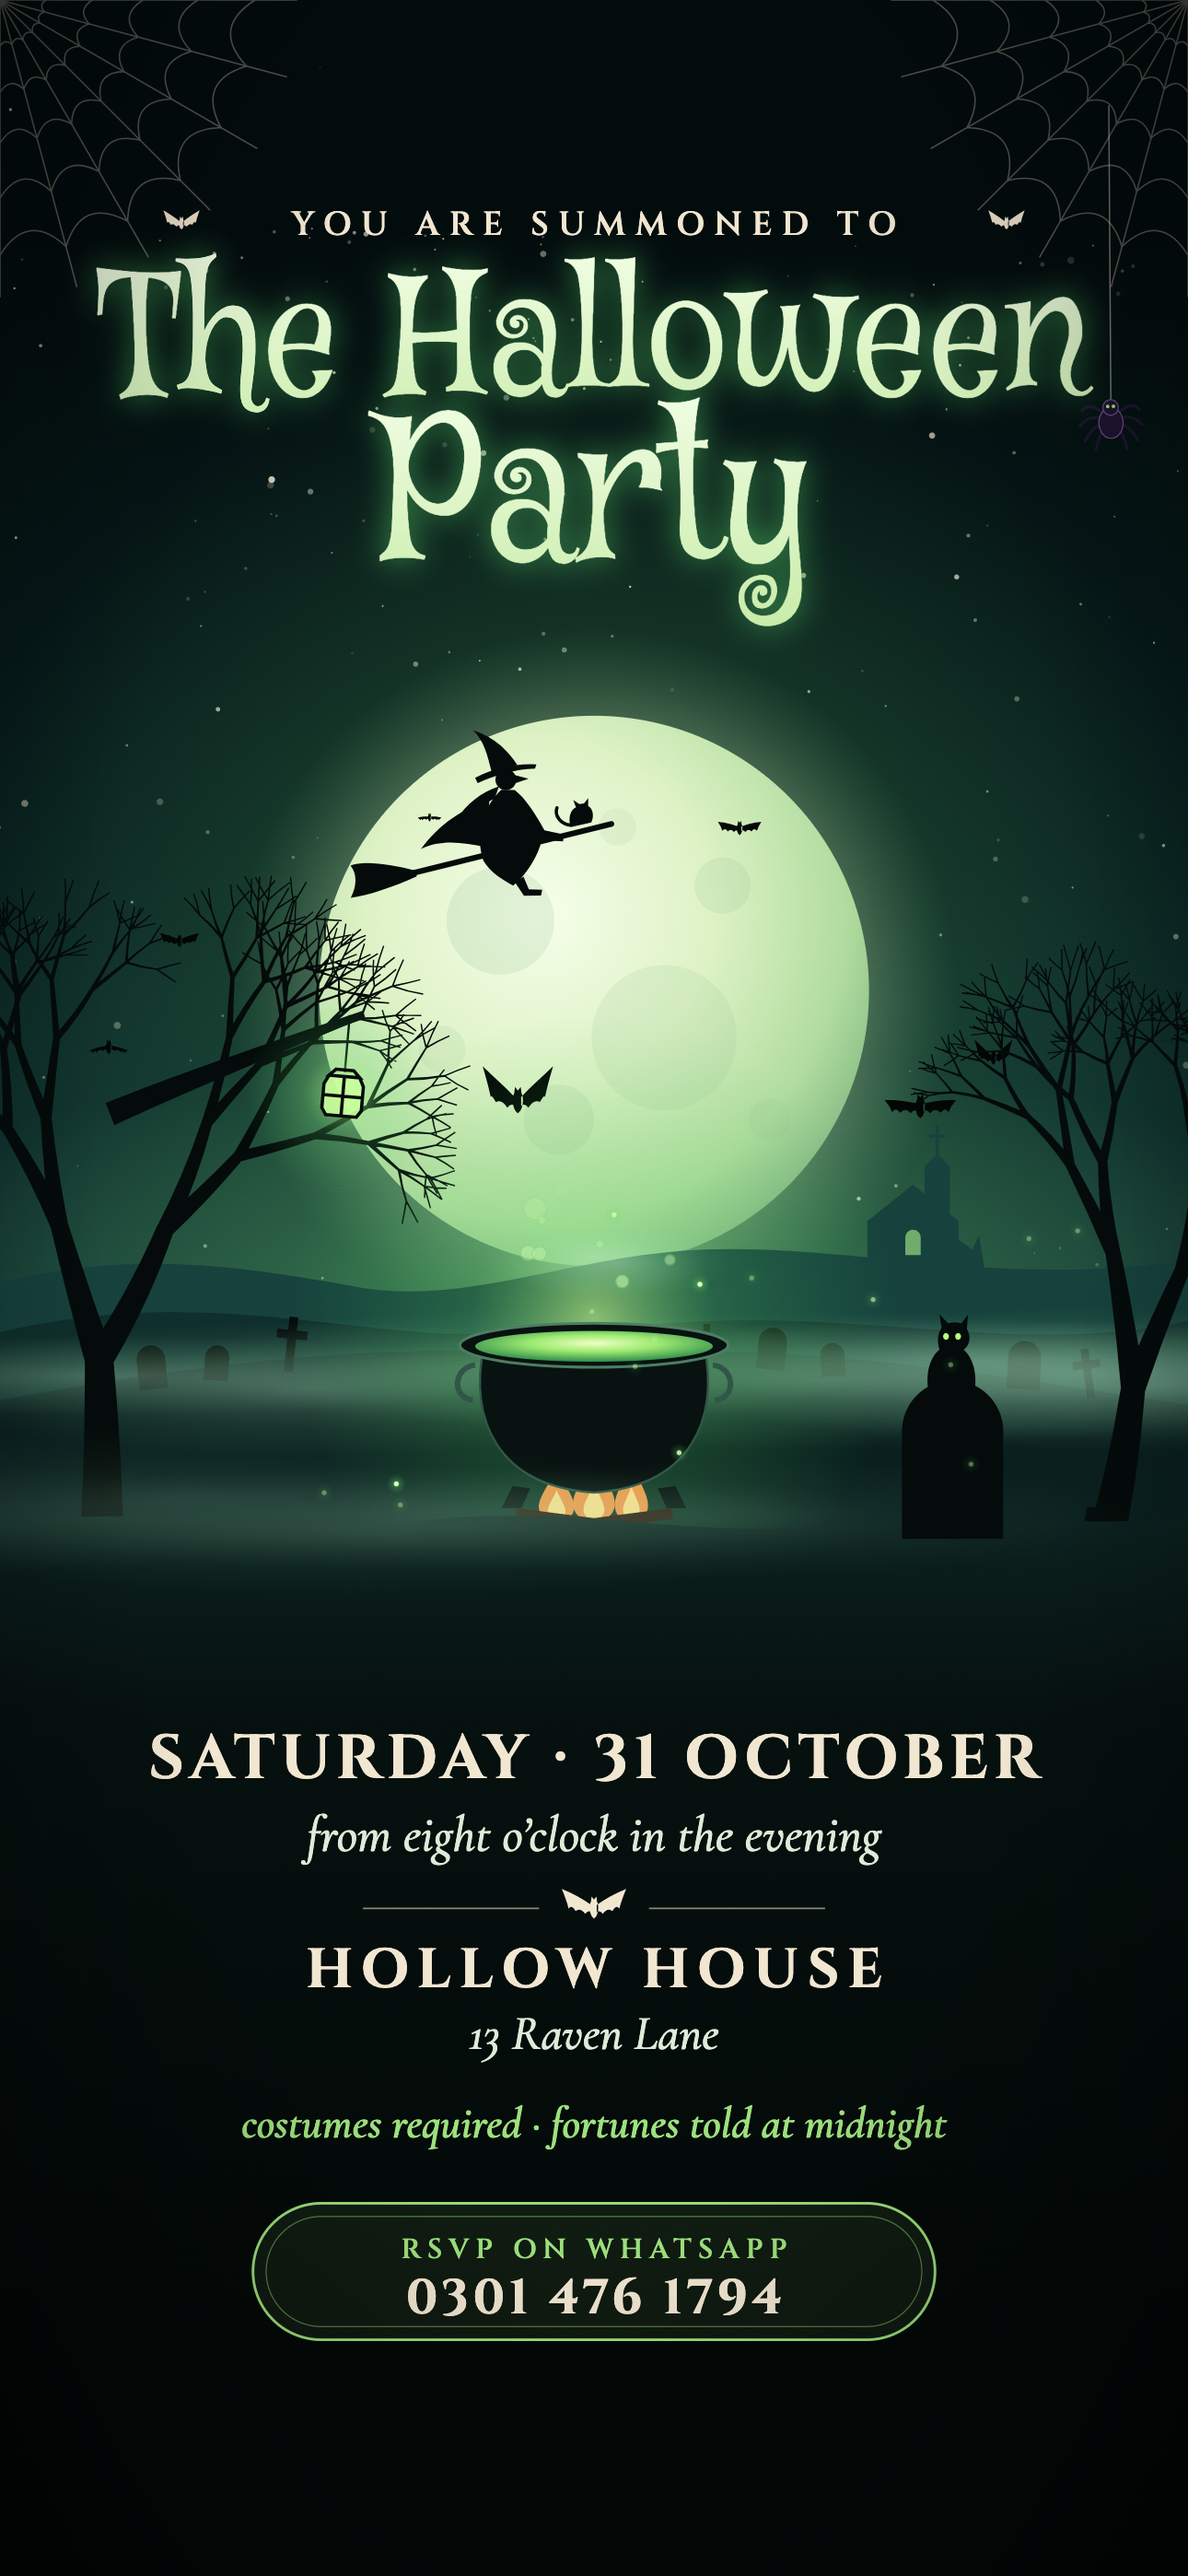
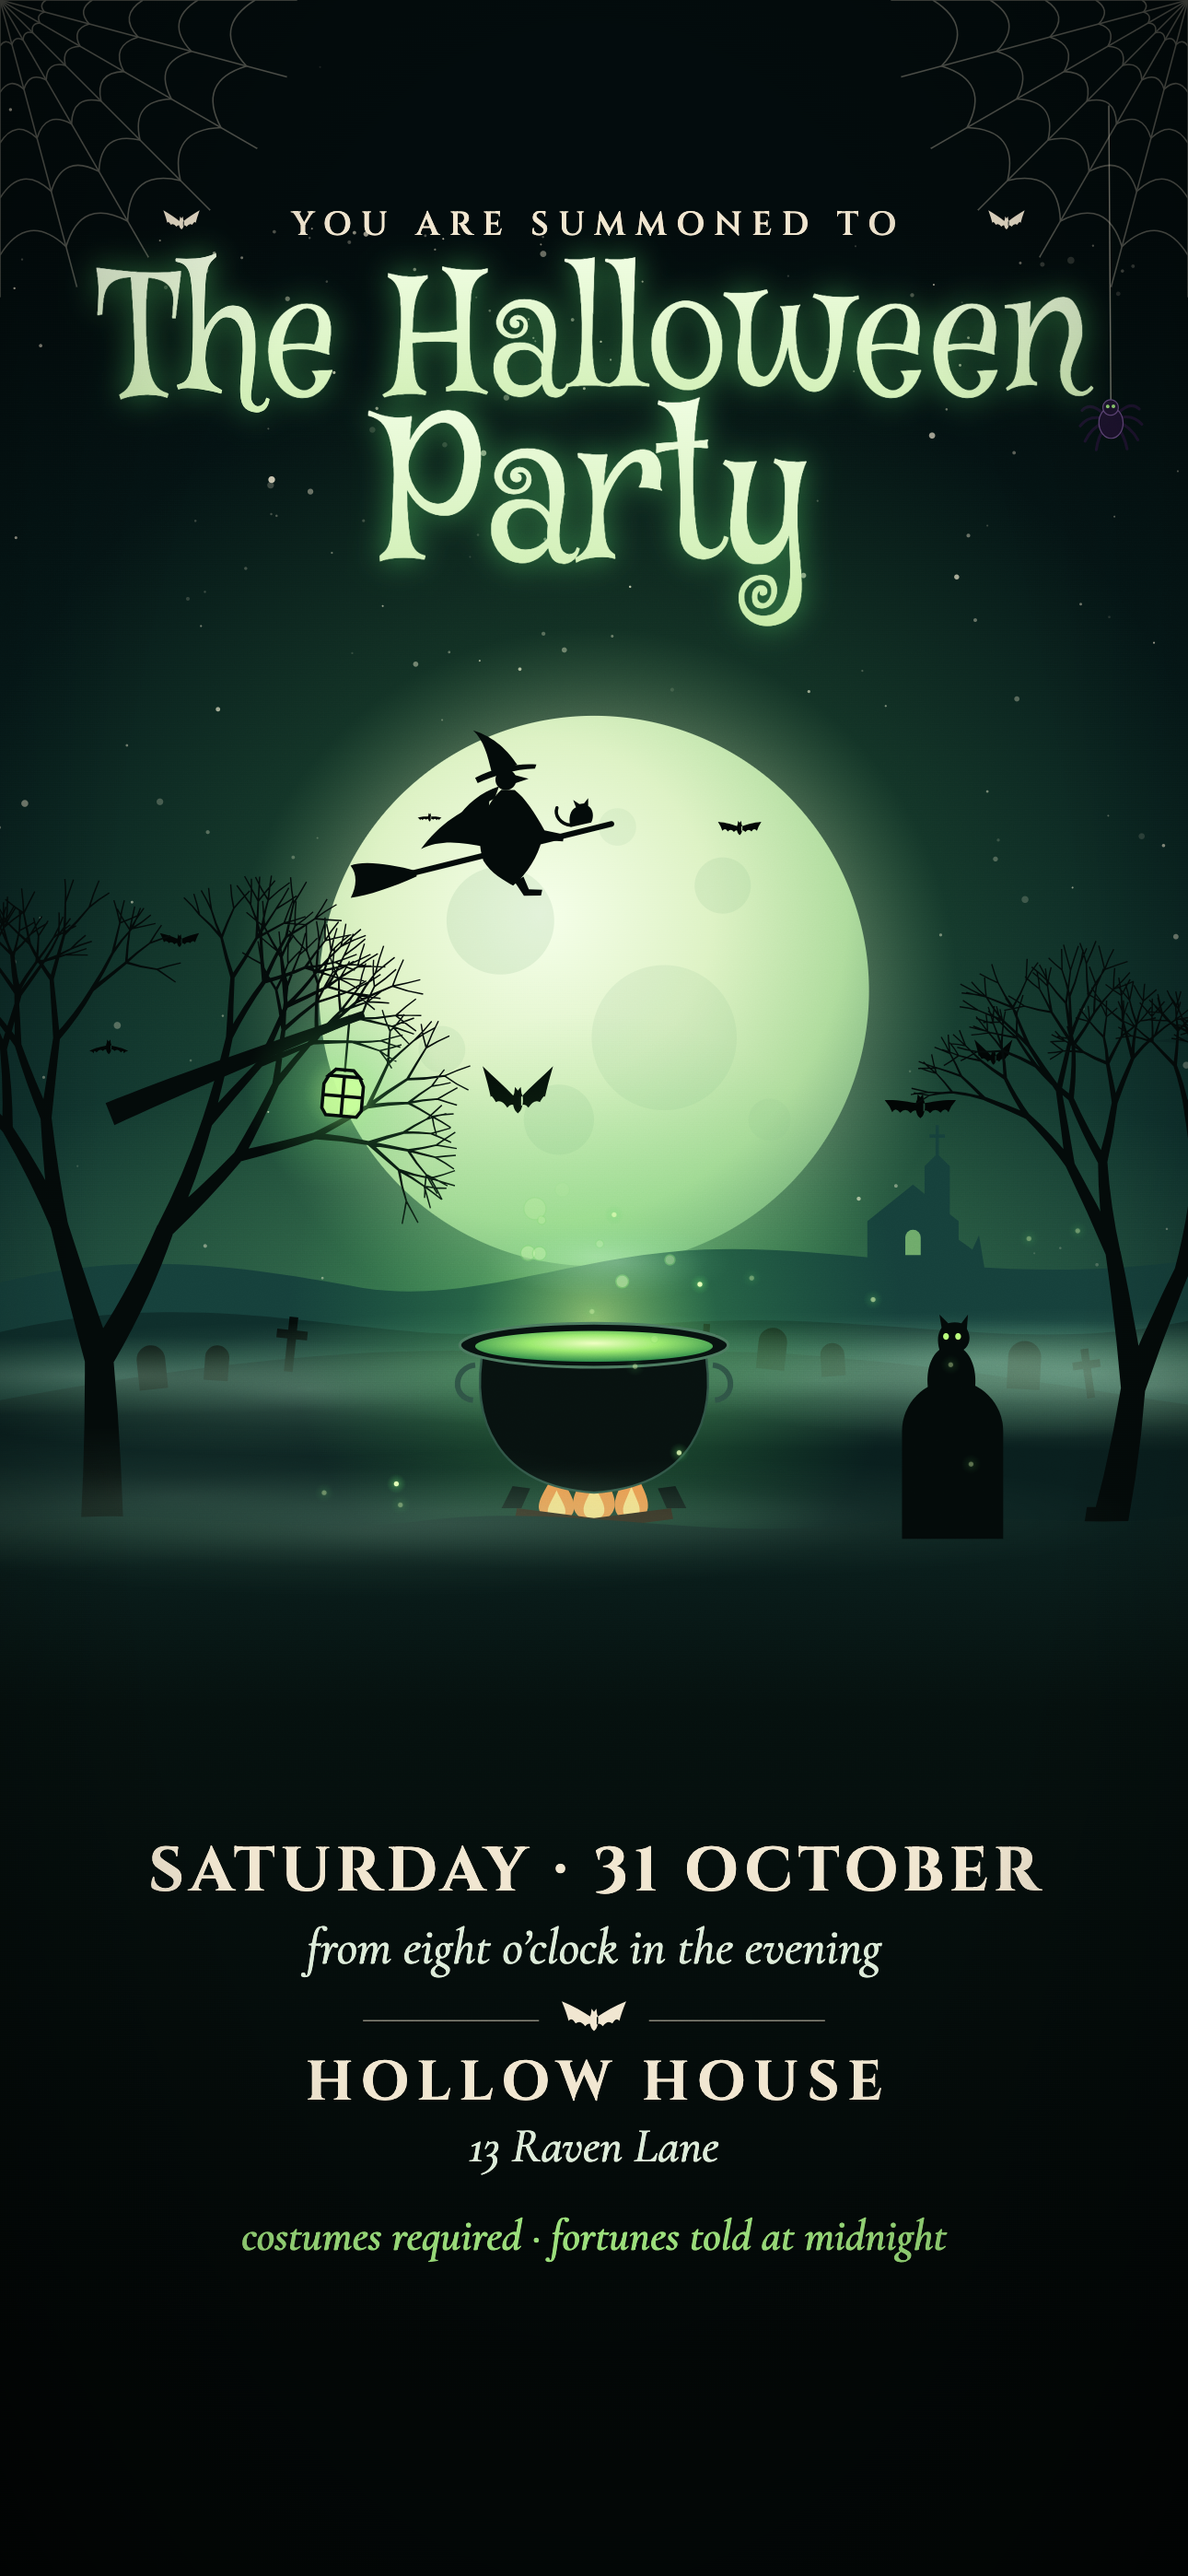
Card details and page details use each card's own typefaces

Changed region(s): [[0.124, 0.6534, 0.8682, 0.9024], [0.124, 0.6534, 0.2481, 0.6845]]

diff --git a/art.js b/art.js
@@ -28,6 +28,7 @@
   const THEMES = {
     manor: {
       font: ['Grenze Gotisch', 700],
+      detail: ['Grenze Gotisch', 600, false, 0.3], body: ['Grenze', 400, true],
       name: 'The Haunted Manor',
       sky: ['#0A0717', '#1A1030', '#2E1846', '#4A2350', '#5E2C4C'],
       moon: { x: 540, y: 700, r: 235, c: ['#FFF4D6', '#F8DC9C', '#EDB06A', '#D98A4C'], crater: '#C9824A', glow: ['#F6C47E', '#E8834A'] },
@@ -38,6 +39,7 @@
     },
     witch: {
       font: ['Mystery Quest', 400],
+      detail: ['Mystery Quest', 400, true, 0.5], body: ['Mystery Quest', 400, false],
       name: 'The Witching Hour',
       sky: ['#030C0D', '#08201F', '#0F3432', '#1D4A43', '#2B5A49'],
       moon: { x: 540, y: 690, r: 250, c: ['#F6FFEA', '#DDF2C4', '#AEDB9C', '#7DB47E'], crater: '#86B88A', glow: ['#C8F0B0', '#5FBF6A'] },
@@ -48,6 +50,7 @@
     },
     patch: {
       font: ['Creepster', 400],
+      detail: ['Creepster', 400, true, 0.5], body: ['Henny Penny', 400, false],
       name: 'The Pumpkin Patch',
       sky: ['#100508', '#2A0B13', '#521519', '#8E2F1D', '#C45B26'],
       moon: { x: 540, y: 800, r: 300, c: ['#FFF0C8', '#FFCF7A', '#F59D42', '#DA6A2A'], crater: '#D07A36', glow: ['#FFC070', '#FF6A2A'] },
@@ -58,6 +61,7 @@
     },
     grave: {
       font: ['Cinzel Decorative', 700],
+      detail: ['Cinzel Decorative', 700, true, 0.7], body: ['Cinzel Decorative', 400, false],
       name: 'The Restless Graveyard',
       sky: ['#050A16', '#0B1830', '#13284A', '#1E3A60', '#2A4A70'],
       moon: { x: 540, y: 690, r: 225, c: ['#F6FAFF', '#DCE8FA', '#AFC6E8', '#839FCB'], crater: '#90A8CE', glow: ['#D2E2FF', '#6F8FD0'] },
@@ -68,6 +72,7 @@
     },
     vamp: {
       font: ['UnifrakturMaguntia', 400],
+      detail: ['UnifrakturMaguntia', 400, false, 0.2], body: ['IM Fell English', 400, true],
       name: 'The Vampire\u2019s Castle',
       sky: ['#0A0204', '#1E0408', '#3A0710', '#5A0E16', '#6E1219'],
       moon: { x: 360, y: 640, r: 195, c: ['#FFE0D4', '#F7A08A', '#D24A3C', '#8E1E1C'], crater: '#A8322A', glow: ['#FF8A70', '#C21E1E'] },
@@ -78,6 +83,7 @@
     },
     forest: {
       font: ['Uncial Antiqua', 400],
+      detail: ['Uncial Antiqua', 400, true, 0.4], body: ['Uncial Antiqua', 400, false],
       name: 'The Whispering Woods',
       sky: ['#02080C', '#061820', '#0B2A33', '#123A40', '#1A4A48'],
       moon: { x: 540, y: 640, r: 190, c: ['#F5FFF8', '#D2F0E0', '#9ED2BC', '#6AA894'], crater: '#7EB8A2', glow: ['#BFF5DA', '#4FA88A'] },
@@ -88,6 +94,7 @@
     },
     ship: {
       font: ['Pirata One', 400],
+      detail: ['Pirata One', 400, false, 0.4], body: ['Pirata One', 400, false],
       name: 'The Ghost Ship',
       sky: ['#02060E', '#06122A', '#0C2042', '#163058', '#1F3C66'],
       moon: { x: 700, y: 640, r: 180, c: ['#FFFDF0', '#F2EFD6', '#CFCBAA', '#A8A27E'], crater: '#B5AF8A', glow: ['#F0EFD0', '#8A9AC0'] },
@@ -98,6 +105,7 @@
     },
     carnival: {
       font: ['Sancreek', 400],
+      detail: ['Sancreek', 400, true, 0.5], body: ['Rye', 400, false],
       name: 'The Haunted Carnival',
       sky: ['#0A0414', '#1C0A2E', '#33124A', '#4E1A5C', '#64205E'],
       moon: { x: 720, y: 600, r: 190, c: ['#FFF2FA', '#F6D2EA', '#D9A0C8', '#B070A0'], crater: '#C080B0', glow: ['#FFC8EC', '#C04FA0'] },
@@ -1072,6 +1080,14 @@
 
     /* ---------- text ---------- */
     const entries = [], fit = [];
+    // the card's own typefaces for the smaller lines
+    const DETAIL = `'${T.detail[0]}', serif`, BODY = `'${T.body[0]}', serif`;
+    const caps = (txt, sentence) => T.detail[2] ? txt.toUpperCase()
+      : sentence ? txt.charAt(0).toUpperCase() + txt.slice(1).toLowerCase()
+      : txt.toLowerCase().replace(/(^|[\s·,-])(\p{L})/gu, (m, a, b) => a + b.toUpperCase());
+    const dls = n => Math.round(n * T.detail[3]);
+    const dl = (txt, y, size, ls, o = {}) => line(caps(txt, o.sentence), y, DETAIL, size, Object.assign({ weight: T.detail[1], ls: dls(ls) }, o));
+    const bl = (txt, y, size, o = {}) => line(txt, y, BODY, size, Object.assign({ weight: T.body[1], italic: T.body[2] }, o));
     function line(txt, y, family, size, o = {}) {
       const t = el('text', {
         x: CX, y, 'font-family': family, 'font-size': size, 'text-anchor': 'middle', fill: o.fill || CREAM,
@@ -1098,7 +1114,7 @@
 
     if (OPT.text) {
       const eg = el('g', {}, topText);
-      line(P.eyebrow, 150, CINZEL, 30, { weight: 600, ls: 9, parent: eg, max: 640 });
+      dl(P.eyebrow, 150, 32, 9, { parent: eg, max: 640, sentence: true });
       for (const sx of [-1, 1]) el('path', { d: batPath(0.6), fill: CREAM, transform: `translate(${CX + sx * 375},140) scale(0.36)` }, eg);
       reveal(eg, 1.9);
 
@@ -1113,11 +1129,11 @@
       reveal(tg, 2.1, 0.9, 30);
 
       const dg = el('g', {}, bottomText);
-      reveal(line(P.date, 1290, CINZEL, 56, { weight: 700, ls: 5, parent: dg, max: 860 }), 2.4);
-      reveal(line(P.time, 1356, CORM, 46, { italic: true, weight: 500, fill: T.soft, parent: dg, max: 860 }), 2.5);
-      reveal(line(P.venue, 1480, CINZEL, 50, { weight: 700, ls: 8, parent: dg, max: 860 }), 2.75);
-      reveal(line(P.address, 1536, CORM, 44, { italic: true, weight: 500, fill: T.soft, parent: dg, max: 860 }), 2.85);
-      reveal(line(P.note, 1616, CORM, 40, { italic: true, weight: 600, fill: T.accent, parent: dg, max: 880 }), 2.95);
+      reveal(dl(P.date, 1290, 62, 5, { parent: dg, max: 880 }), 2.4);
+      reveal(bl(P.time, 1356, 42, { fill: T.soft, parent: dg, max: 860 }), 2.5);
+      reveal(dl(P.venue, 1480, 56, 8, { parent: dg, max: 860 }), 2.75);
+      reveal(bl(P.address, 1536, 40, { fill: T.soft, parent: dg, max: 860 }), 2.85);
+      reveal(bl(P.note, 1616, 38, { fill: T.accent, parent: dg, max: 900 }), 2.95);
       if (OPT.rsvp) {
         reveal(line(P.rsvpLabel, 1726, CINZEL, 25, { weight: 600, ls: 6, fill: T.accent, parent: dg, max: 540 }), 3.1);
         reveal(line(P.rsvpNumber, 1776, CINZEL, 44, { weight: 700, ls: 4, parent: dg, max: 560 }), 3.15);
@@ -1198,6 +1214,8 @@
           document.fonts.load("700 50px 'Cinzel'"), document.fonts.load("600 50px 'Cinzel'"),
           document.fonts.load("italic 500 50px 'Cormorant Garamond'"), document.fonts.load("italic 600 50px 'Cormorant Garamond'"),
           document.fonts.load(`${T.font[1]} 50px '${T.font[0]}'`),
+          document.fonts.load(`${T.detail[1]} 50px '${T.detail[0]}'`),
+          document.fonts.load(`${T.body[2] ? 'italic ' : ''}${T.body[1]} 50px '${T.body[0]}'`),
         ]).catch(() => {});
         await document.fonts.ready;
       }
@@ -1249,6 +1267,6 @@
     create, batPath, INTRO, THEMES: Object.keys(THEMES),
     themeNames: Object.fromEntries(Object.entries(THEMES).map(([k, v]) => [k, v.name])),
     // per-theme look for the page around a card: title font + colours
-    themeStyle: Object.fromEntries(Object.entries(THEMES).map(([k, v]) => [k, { font: v.font, accent: v.accent, glow: v.titleGlow, title: v.title }])),
+    themeStyle: Object.fromEntries(Object.entries(THEMES).map(([k, v]) => [k, { font: v.font, detail: v.detail, body: v.body, accent: v.accent, glow: v.titleGlow, title: v.title, soft: v.soft }])),
   };
 })(window);

diff --git a/index.html b/index.html
@@ -27,7 +27,7 @@
 <link rel="icon" href="favicon.svg" type="image/svg+xml">
 <link rel="preconnect" href="https://fonts.googleapis.com">
 <link rel="preconnect" href="https://fonts.gstatic.com" crossorigin>
-<link href="https://fonts.googleapis.com/css2?family=Cinzel:wght@600;700&family=Cormorant+Garamond:ital,wght@1,500;1,600&family=Grenze+Gotisch:wght@700&family=Mystery+Quest&family=Creepster&family=Cinzel+Decorative:wght@700&family=UnifrakturMaguntia&family=Uncial+Antiqua&family=Pirata+One&family=Sancreek&display=swap" rel="stylesheet">
+<link href="https://fonts.googleapis.com/css2?family=Cinzel:wght@600;700&family=Cormorant+Garamond:ital,wght@1,500;1,600&family=Grenze+Gotisch:wght@700&family=Mystery+Quest&family=Creepster&family=Cinzel+Decorative:wght@400;700&family=Grenze:ital,wght@0,400;1,400&family=IM+Fell+English:ital@1&family=Henny+Penny&family=Rye&family=UnifrakturMaguntia&family=Uncial+Antiqua&family=Pirata+One&family=Sancreek&display=swap" rel="stylesheet">
 <style>
   :root { --bg: #0A0717; --cream: #F1E6D0; --soft: #E9DBC4; --ember: #E8834A; --line: rgba(241, 230, 208, .22); }
   * { box-sizing: border-box; }
@@ -83,8 +83,9 @@
   .divider svg { width: 34px; height: 20px; fill: var(--cream); opacity: .9; }
 
   .details p { margin: 0 0 4px; }
-  .details .date { font: 700 22px 'Cinzel', serif; letter-spacing: 3px; }
-  .details .venue { font: 700 18px 'Cinzel', serif; letter-spacing: 4px; margin-top: 16px; }
+  .details .soft, .details .note, .eyebrow, .cd-note { font-family: var(--body-font, 'Cormorant Garamond'), serif; font-style: var(--body-style, italic); }
+  .details .date { font: var(--detail-weight, 700) 22px var(--detail-font, 'Cinzel'), serif; letter-spacing: var(--detail-ls, 3px); text-transform: var(--detail-case, none); }
+  .details .venue { font: var(--detail-weight, 700) 20px var(--detail-font, 'Cinzel'), serif; letter-spacing: var(--detail-ls, 4px); margin-top: 16px; text-transform: var(--detail-case, none); }
   .details .soft { color: var(--soft); }
   .details .note { color: var(--ember); margin-top: 14px; font-weight: 600; }
 
@@ -506,6 +507,12 @@ function applyThemeLook(theme) {
   r.setProperty('--fab-bg', `linear-gradient(180deg, ${st.title[1]}, ${st.accent})`);
   r.setProperty('--fab-glow', hexA(st.accent, 0.55));
   r.setProperty('--fab-accent', st.accent);
+  r.setProperty('--detail-font', `'${st.detail[0]}'`);
+  r.setProperty('--detail-weight', st.detail[1]);
+  r.setProperty('--detail-ls', `${Math.round(4 * st.detail[3])}px`);
+  r.setProperty('--detail-case', st.detail[2] ? 'uppercase' : 'capitalize');
+  r.setProperty('--body-font', `'${st.body[0]}'`);
+  r.setProperty('--body-style', st.body[2] ? 'italic' : 'normal');
 }
 function setActive(i) {
   i = Math.max(0, Math.min(cards.length - 1, i));
@@ -763,9 +770,9 @@ document.querySelectorAll('.bat-icon').forEach(p => p.setAttribute('d', HauntCar
 
 /* ---------- text ---------- */
 $('title').textContent = PARTY.title;
-$('d-date').textContent = PARTY.dateText.toUpperCase();
+$('d-date').textContent = PARTY.dateText.toLowerCase();
 $('d-time').textContent = PARTY.timeText;
-$('d-venue').textContent = PARTY.venue.toUpperCase();
+$('d-venue').textContent = PARTY.venue.toLowerCase();
 $('d-address').textContent = PARTY.address;
 $('d-note').textContent = PARTY.note;
 $('rsvp-by').textContent = PARTY.rsvpBy ? `${PARTY.rsvpBy}. Your reply goes to ${PARTY.hostName} on WhatsApp${PARTY.phoneShown ? ' (' + PARTY.phoneShown + ')' : ''}.` : '';
